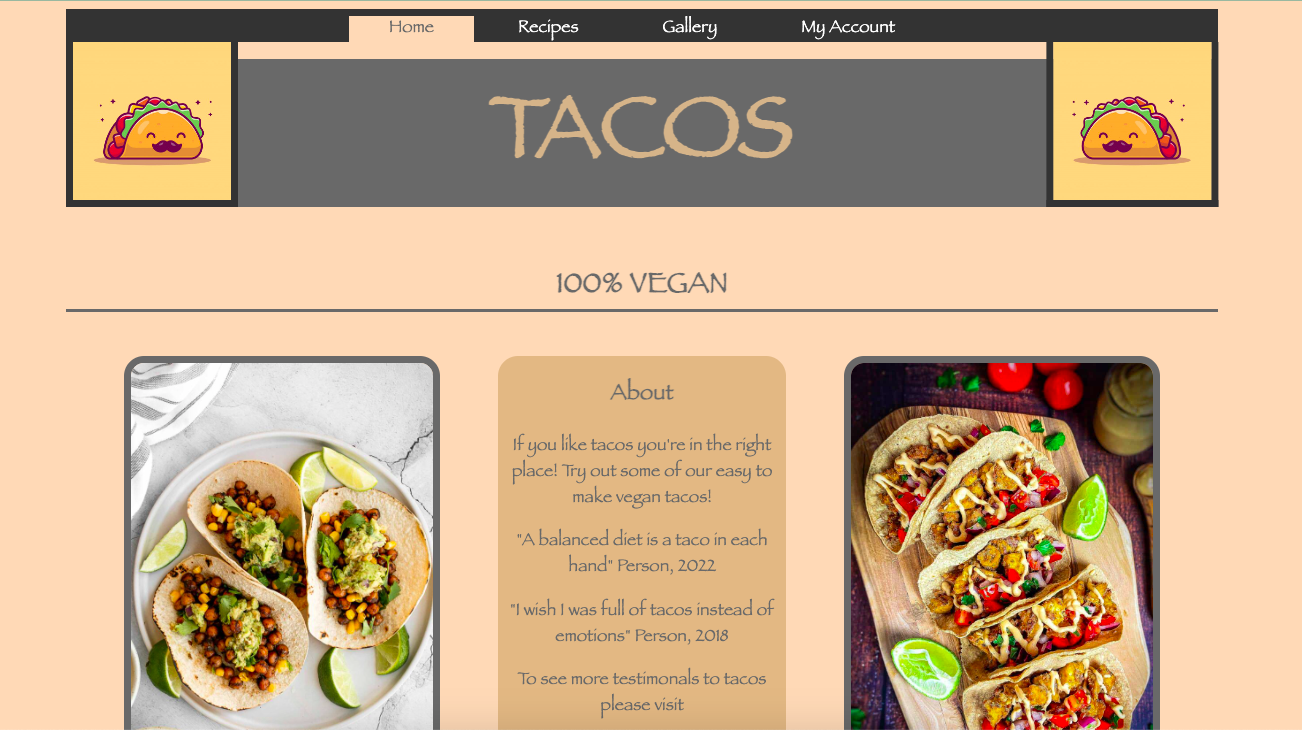
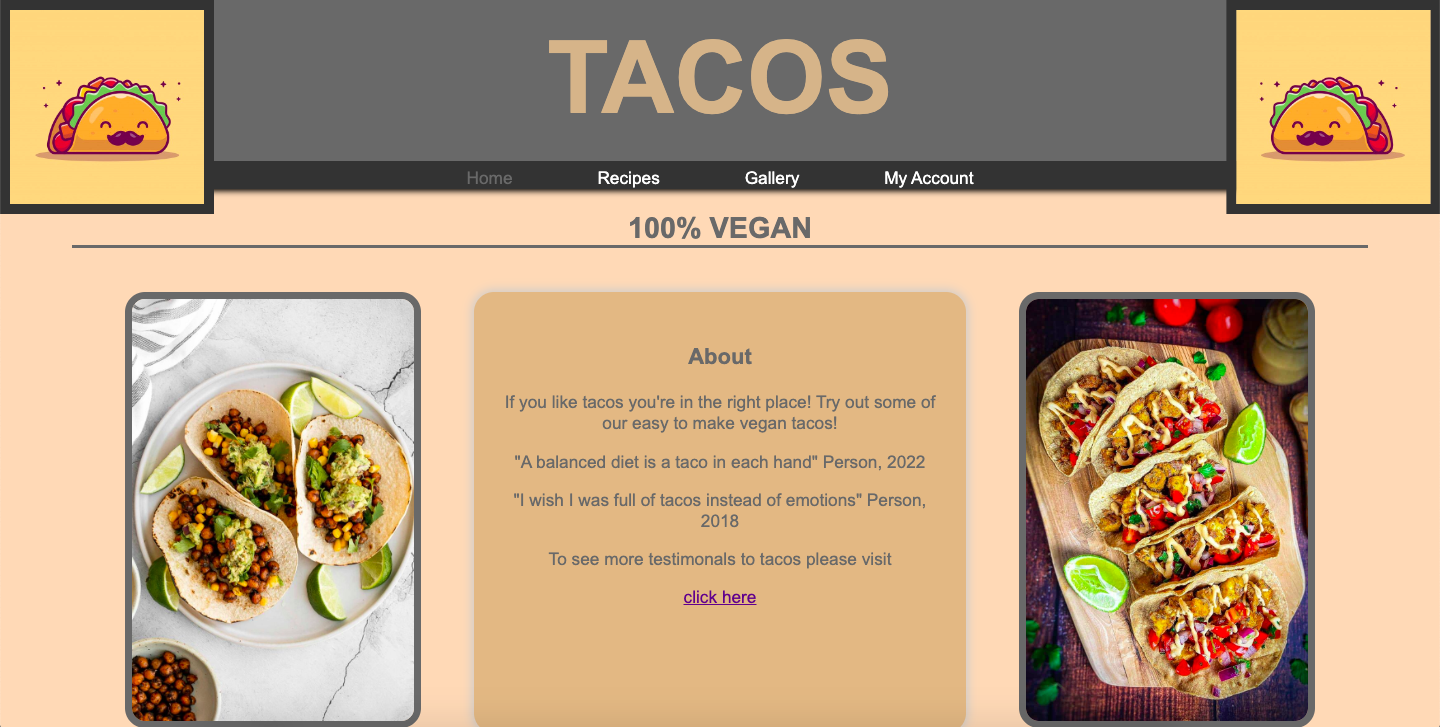
updated styling

diff --git a/css/styles.css b/css/styles.css
@@ -2,24 +2,30 @@
 body {
     background-color:peachpuff;
     text-align: center;
-    max-width:80%;
+    max-width:90%;
     margin-left:auto;
     margin-right:auto;
     color:dimgray;
-    font-family: fantasy;
+    font-family:Arial, Helvetica, sans-serif;
     font-size: 1.2vw;
 }
 /* Navigation bar at top of page */
 nav {
+    margin-top: 8.5%;
+    width: 100%;
+    margin-left: auto;
+    margin-right: auto;
     background-color:#333;
     overflow: hidden;
     border-top: solid #333 7px;
+    box-shadow: 0px 8px 6px -6px black;
 }
 nav a {
     padding: 20px 40px;
     text-decoration: none;
     color:white;
     text-decoration: none;
+    
     
 }
 /* Change colour of navigation button when hovering over */
@@ -29,37 +35,48 @@ nav a:hover {
 }
 /* Colour of button of the current page */
 nav a.active {
-    background-color: peachpuff;
+    
     color: dimgray;
+    margin-top: -5%;
 }
 /* Heading 1 in its own block of text with different background colour */
 h1 {
-    font-size: 6vw;
+    font-size: 7vw;
     background-color: dimgray;
     color:tan;
     margin-left: auto;
     margin-right: auto;
-    margin-top:1.5%;
-    padding-top: 1.3%;
+    margin-top: -1%;
+    padding-top: 2%;
+    padding-bottom:3.4%;
+    margin-bottom: -10%;
+    text-shadow: 3 px 3px  black
     
 }
 /* Logo image in top corners of page  */
 .logo1 {
     float: left;
+    
 }
 #image3{
-    max-width: 11vw;
-    border:solid #333 7px;
-    border-top:none
+    max-width: 13.5vw;
+    position: absolute;
+    top: 0px;
+    left: 0px;
+    border:solid #333 10px;
+    
 }
 .logo2 {
     float: right;
+    
 }
 /* Same image but flipped */
 #image3Reverse{
-    max-width: 11vw;
-    border:solid #333 7px;
-    border-top:none;
+    max-width: 13.5vw;
+    border:solid #333 10px;
+    position: absolute;
+    top: 0px;
+    right: 0px;
     transform: scaleX(-1);
 }
 h2 {
@@ -82,7 +99,11 @@ h2 {
 section {
     grid-column: 2/5;
     grid-row:1/1;
-    max-width: 20vw;
+    max-width: 30vw;
+    padding: 30px;
+    background-color:burlywood ;
+    border-radius: 20px;
+    box-shadow: 0px 0px 10px 2px #ccc;
 }
 #aside2 {
     grid-column: 6/6;
@@ -98,11 +119,8 @@ section {
     border: solid dimgray 7px;
     border-radius: 20px;
 }
-/* paragraph in its own block of text with difrent background colour containing information and testimonials */
-.paragraph {
-    background-color:burlywood ;
-    border-radius: 20px;
-}
+
+
 
 
 /* Styles specific for recipe page */
@@ -115,6 +133,8 @@ section {
     max-width: 1200px;
     border: solid;
     border-radius: 10px;
+    margin-left: auto;
+    margin-right:auto;
 }
 #recipe1 {
     grid-column: 1/1;
@@ -217,4 +237,7 @@ h4 {
 }
 input {
     width:8vw;
+}
+#userName {
+    font-size: 20px;
 }

diff --git a/index.html b/index.html
@@ -9,13 +9,7 @@
     </head>
 
     <body onload="myLoad()">
-        <nav>
-            <!--Navigation bar at top of page to link to other html documents-->
-            <a class="active" href="index.html" target="_self">Home</a>
-            <a href="recipe.html" target="_self">Recipes</a>  
-            <a href="gallery.html" target="_self">Gallery</a>
-            <a href="myAccount.html" target="_self">My Account</a>
-        </nav>
+        
 
         <!--Image to go aside the heading-->
         <aside class="logo1">
@@ -24,9 +18,19 @@
         <aside class="logo2">
             <img id="image3Reverse" src = "Images/image3.jpeg" alt = "image not displaying">
         </aside>
+       
+
 
         <!--Multiple headings to differentiate sections-->
         <h1>TACOS</h1>
+        <nav>
+            <!--Navigation bar at top of page to link to other html documents-->
+            <a class="active" href="index.html" target="_self">Home</a>
+            <a href="recipe.html" target="_self">Recipes</a>  
+            <a href="gallery.html" target="_self">Gallery</a>
+            <a href="myAccount.html" target="_self">My Account</a>
+        </nav>
+
         <h2>100% VEGAN</h2>
 
         <!--The main section of a page including images and text-->
@@ -58,14 +62,8 @@
                 <label for="email">Email Address:</label>
                 <input type="text" id="email" name="email">
                 <label for="phone">Mobile:</label>
-                <input type="text" id="phone" name="phone"><br>
-                <p>How would you like to be contacted?</p>
-                <label for="email2">Email</label>
-                <input type="radio" id="email2" name="email2">
-                <label for="sms">SMS</label>
-                <input type="radio" id="sms" name="sms">
-                <label for="both">Both</label>
-                <input type="radio" id="both" name="both"><br>
+                <input type="text" id="phone" name="phone"><br><br>
+
                 <input type="button" value="Submit" id="submitForm">
             </form>
 

diff --git a/myAccount.html b/myAccount.html
@@ -6,13 +6,7 @@
         <link rel="stylesheet" href="./css/styles.css">
     </head>
     <body onload="myLoad(),createImageFolder(),createRecipeFolder(),updateDetails()">
-        <nav>
-            <!--Navigation bar at top of page-->
-            <a href="index.html" target="_self">Home</a>
-            <a href="recipe.html" target="_self">Recipes</a>
-            <a href="gallery.html" target="_self">Gallery</a>
-            <a class="active" href="myAccount.html" target="_self">My Account</a>
-        </nav>
+        
 
         <!--Image to go aside the heading-->
         <aside class="logo1">
@@ -24,6 +18,14 @@
 
         <!--Multiple headings to differentiate sections-->
         <h1>TACOS</h1>
+        <nav>
+            <!--Navigation bar at top of page-->
+            <a href="index.html" target="_self">Home</a>
+            <a href="recipe.html" target="_self">Recipes</a>
+            <a href="gallery.html" target="_self">Gallery</a>
+            <a class="active" href="myAccount.html" target="_self">My Account</a>
+        </nav>
+
         <h2>MY ACCOUNT</h2>
 
         <!-- Create empty sections to be populated if items are saved -->
@@ -53,14 +55,8 @@
                 <label for="email">Email Address:</label>
                 <input type="text" id="email" name="email">
                 <label for="phone">Mobile:</label>
-                <input type="text" id="phone" name="phone"><br>
-                <p>How would you like to be contacted?</p>
-                <label for="email2">Email</label>
-                <input type="radio" id="email2" name="email2">
-                <label for="sms">SMS</label>
-                <input type="radio" id="sms" name="sms">
-                <label for="both">Both</label>
-                <input type="radio" id="both" name="both"><br>
+                <input type="text" id="phone" name="phone"><br><br>
+                
                 <input type="button" value="Submit" id="submitForm">
             </form>
         </div>

diff --git a/recipe.html b/recipe.html
@@ -6,13 +6,7 @@
         <link rel="stylesheet" href="./css/styles.css">
     </head>
     <body onload="myLoad(),comments()">
-        <nav>
-            <!--Navigation bar at top of page-->
-            <a href="index.html" target="_self">Home</a>
-            <a class="active" href="recipe.html" target="_self">Recipes</a>
-            <a href="gallery.html" target="_self">Gallery</a>
-            <a href="myAccount.html" target="_self">My Account</a>
-        </nav>
+        
 
         <!--Image to go aside the heading-->
         <aside class="logo1">
@@ -24,6 +18,15 @@
 
         <!--Multiple headings to differentiate sections-->
         <h1>TACOS</h1>
+        <nav>
+            <!--Navigation bar at top of page-->
+            <a href="index.html" target="_self">Home</a>
+            <a class="active" href="recipe.html" target="_self">Recipes</a>
+            <a href="gallery.html" target="_self">Gallery</a>
+            <a href="myAccount.html" target="_self">My Account</a>
+        </nav>
+
+
         <h2>RECIPES</h2>
 
          <!--The main section of a page includes a table for the reciples-->
@@ -110,14 +113,7 @@
                 <label for="email">Email Address:</label>
                 <input type="text" id="email" name="email">
                 <label for="phone">Mobile:</label>
-                <input type="text" id="phone" name="phone"><br>
-                <p>How would you like to be contacted?</p>
-                <label for="email2">Email</label>
-                <input type="radio" id="email2" name="email2">
-                <label for="sms">SMS</label>
-                <input type="radio" id="sms" name="sms">
-                <label for="both">Both</label>
-                <input type="radio" id="both" name="both"><br>
+                <input type="text" id="phone" name="phone"><br><br>
                 <input type="button" value="Submit" id="submitForm">
             </form>
         </div>

diff --git a/gallery.html b/gallery.html
@@ -6,13 +6,7 @@
         <link rel="stylesheet" href="./css/styles.css">
     </head>
     <body onload="myLoad()">
-        <nav>
-            <!--Navigation bar at top of page-->
-            <a href="index.html" target="_self">Home</a>
-            <a href="recipe.html" target="_self">Recipes</a> 
-            <a class="active" href="gallery.html" target="_self">Gallery</a>
-            <a href="myAccount.html" target="_self">My Account</a>
-        </nav>
+        
 
         <!--Image to go aside the heading-->
         <aside class="logo1">
@@ -24,6 +18,15 @@
 
         <!--Multiple headings to differentiate sections-->
         <h1>TACOS</h1>
+        <nav>
+            <!--Navigation bar at top of page-->
+            <a href="index.html" target="_self">Home</a>
+            <a href="recipe.html" target="_self">Recipes</a> 
+            <a class="active" href="gallery.html" target="_self">Gallery</a>
+            <a href="myAccount.html" target="_self">My Account</a>
+        </nav>
+
+
         <h2>GALLERY</h2>
 
         <div>
@@ -44,14 +47,7 @@
                 <label for="email">Email Address:</label>
                 <input type="text" id="email" name="email">
                 <label for="phone">Mobile:</label>
-                <input type="text" id="phone" name="phone"><br>
-                <p>How would you like to be contacted?</p>
-                <label for="email2">Email</label>
-                <input type="radio" id="email2" name="email2">
-                <label for="sms">SMS</label>
-                <input type="radio" id="sms" name="sms">
-                <label for="both">Both</label>
-                <input type="radio" id="both" name="both"><br>
+                <input type="text" id="phone" name="phone"><br><br>
                 <input type="button" value="Submit" id="submitForm">
             </form>
         </div>

diff --git a/js/tacoWebsite.js b/js/tacoWebsite.js
@@ -144,7 +144,7 @@ function updateDetails() {
         userDetails.innerHTML = ""
     }
     else {
-        userName.innerHTML = saveData[2].userName;
-        userDetails.innerHTML = `${saveData[2].email} -- ${saveData[2].phoneNumber}`;
+        userName.innerHTML = "Welcome " + saveData[2].userName;
+        
     }; 
 };

diff --git a/README.md b/README.md
@@ -1,5 +1,6 @@
 # Capstone Project - Build a Complete Website
-While studying in my Web Development Bootcamp I was given the task to build a complete working website using Javascript, HTML and CSS. I was given the freedom to make it about any subject. I chose to create a recipe website for Tacos. I feel this was the kind of website I could make to utilise all the different skills I have gained throughout the boocamp. There were certain specifications I had to follow; The style had to include various different fonts and styles. I had to include a table and lists, links, images and forms. After creating the base website without any functionality I was given the task to use Javascript to create a "save for later" page. Using the session storage images/recipes/articles had to be able to be saved onto another page to be viewed later. I made this a "My account" page where the user can subscribe and save the contents over to a new HTML. 
+While studying in my Web Development Bootcamp I was given the task to build a complete working website using Javascript, HTML and CSS. I was given the freedom to make it about any subject. I chose to create a recipe website for Tacos. I feel this was the kind of website I could make to utilise all the different skills I have gained throughout the bootcamp. There were certain specifications I had to follow; The style had to include various different fonts and styles using CSS. I had to include a table and lists, links, images and forms. 
+After creating the base website without any functionality I was given the task to use JavaScript to create a "save for later" page. Using the session storage images/recipes/articles had to be able to be saved onto another page to be viewed later. I made this a "My account" page where the user can subscribe and save the contents over to a new HTML. 
 
 1. [Installation](#install)
 2. [Usage](#usage)
